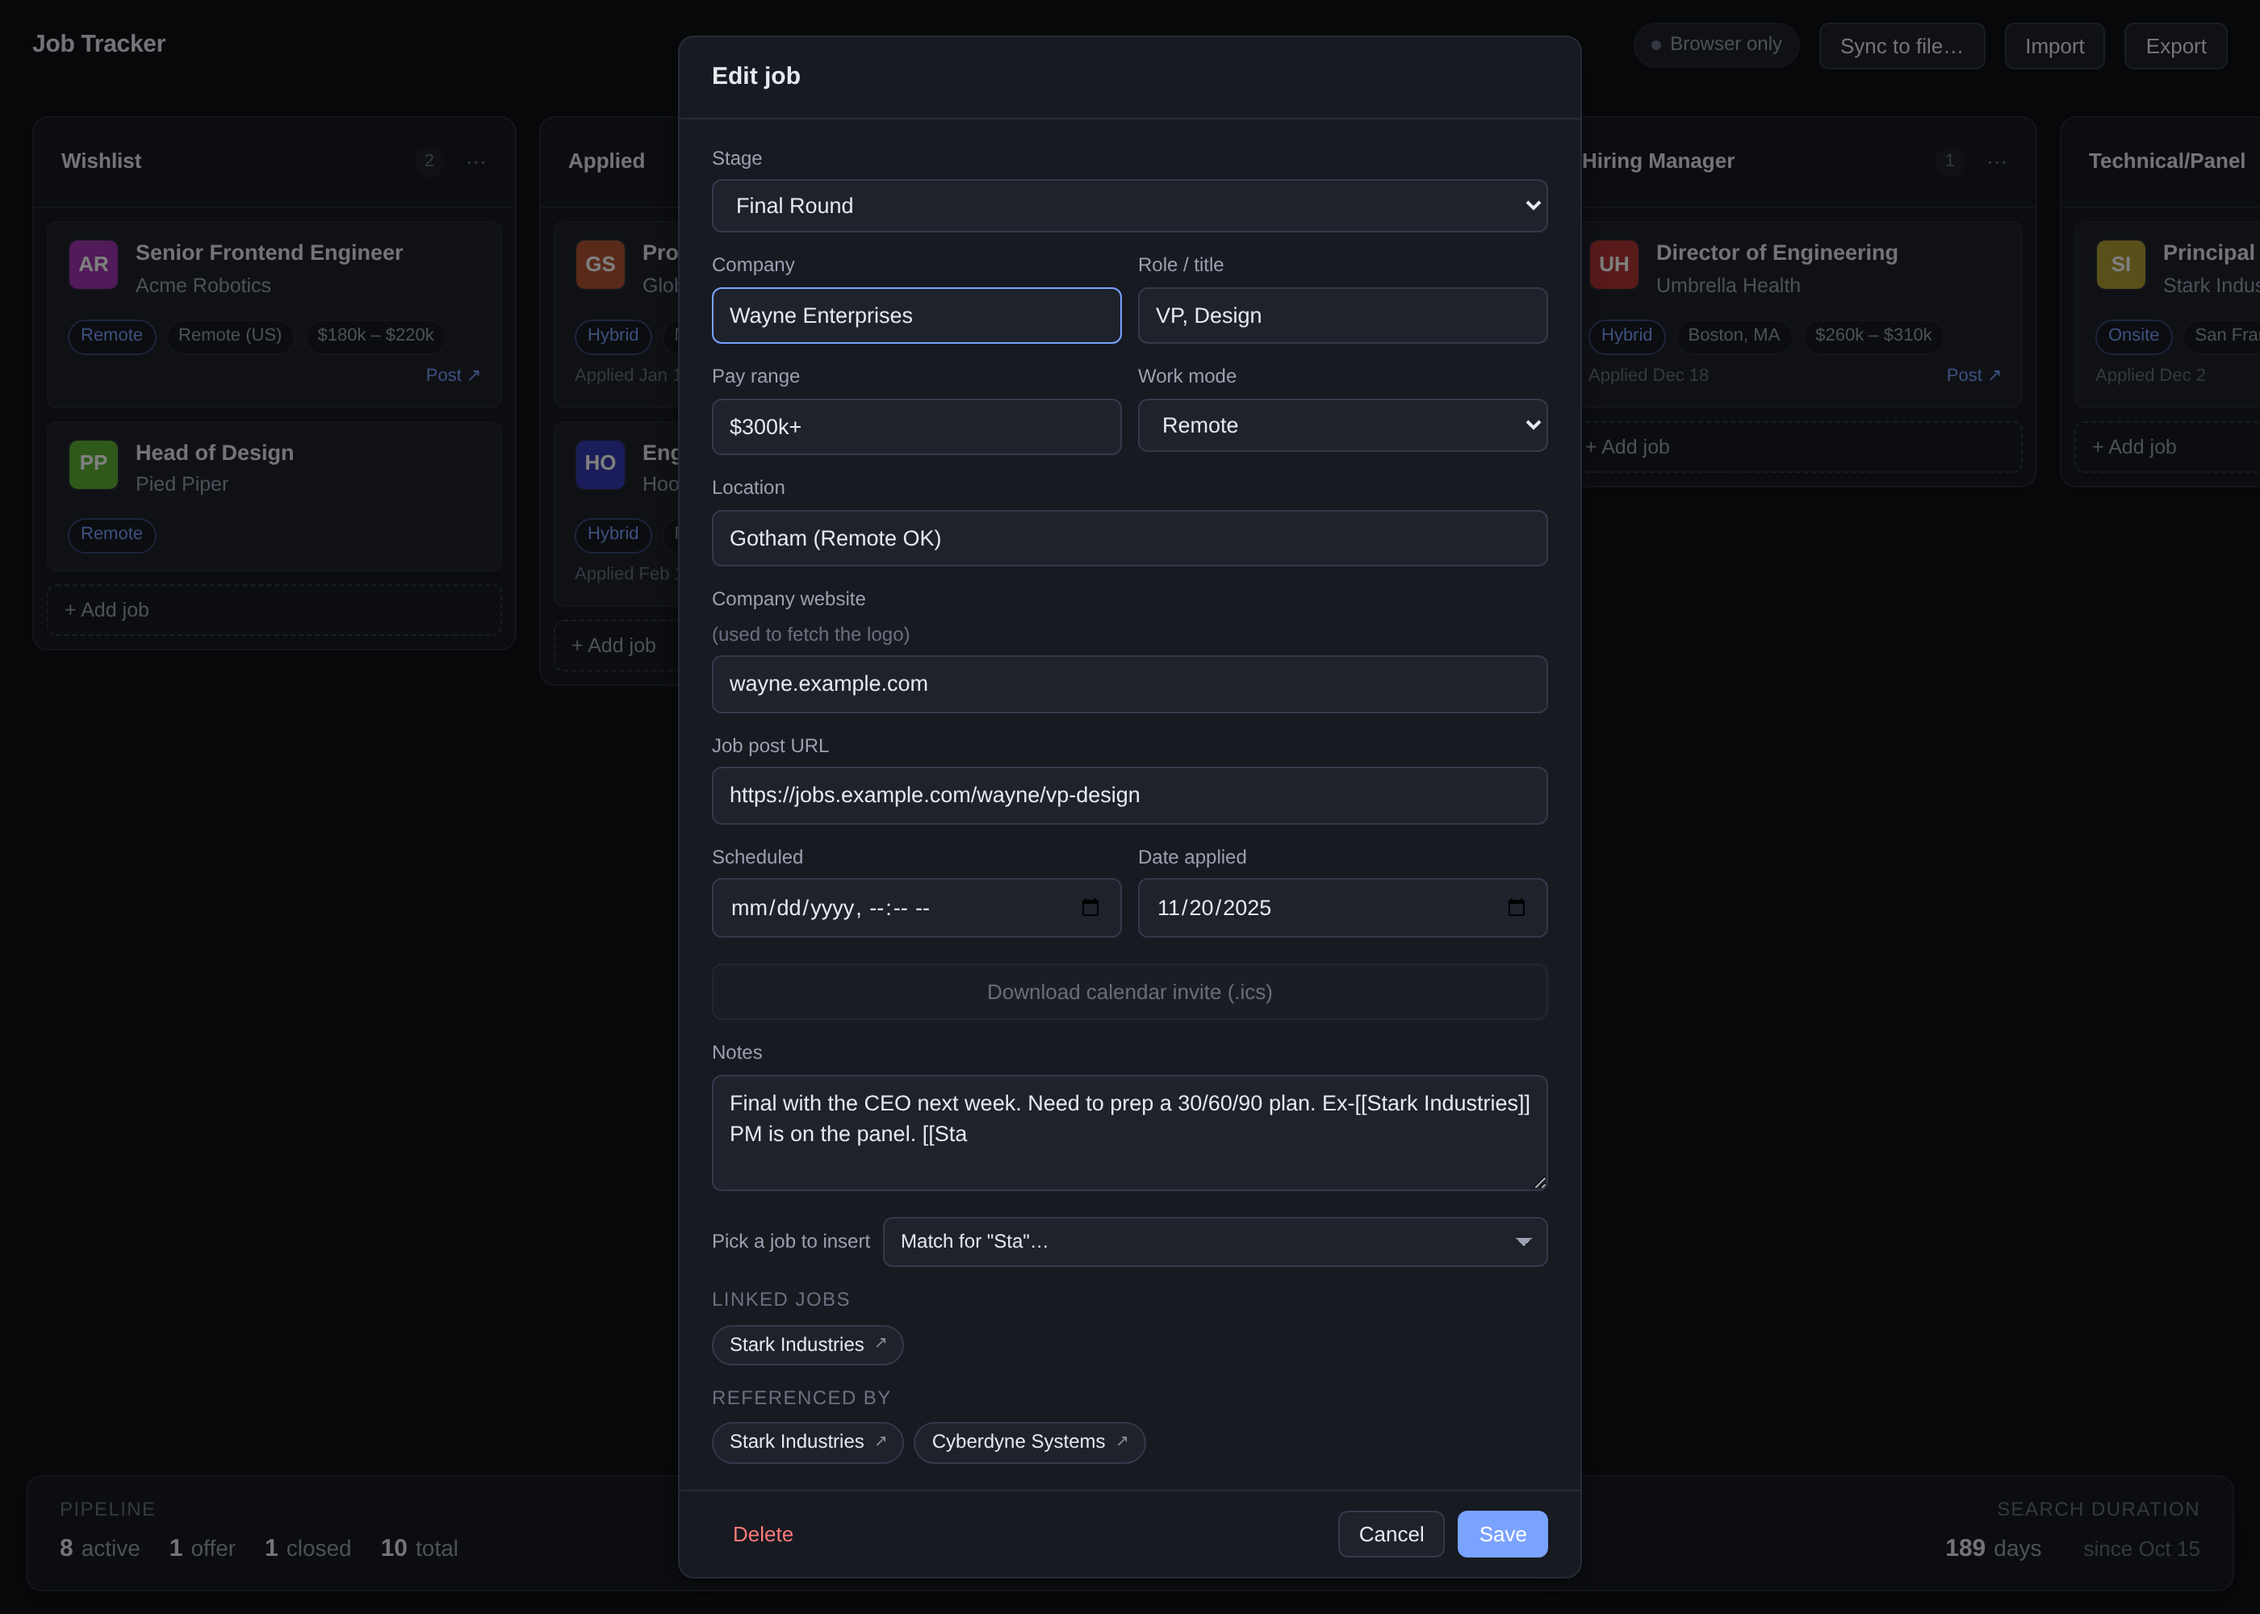
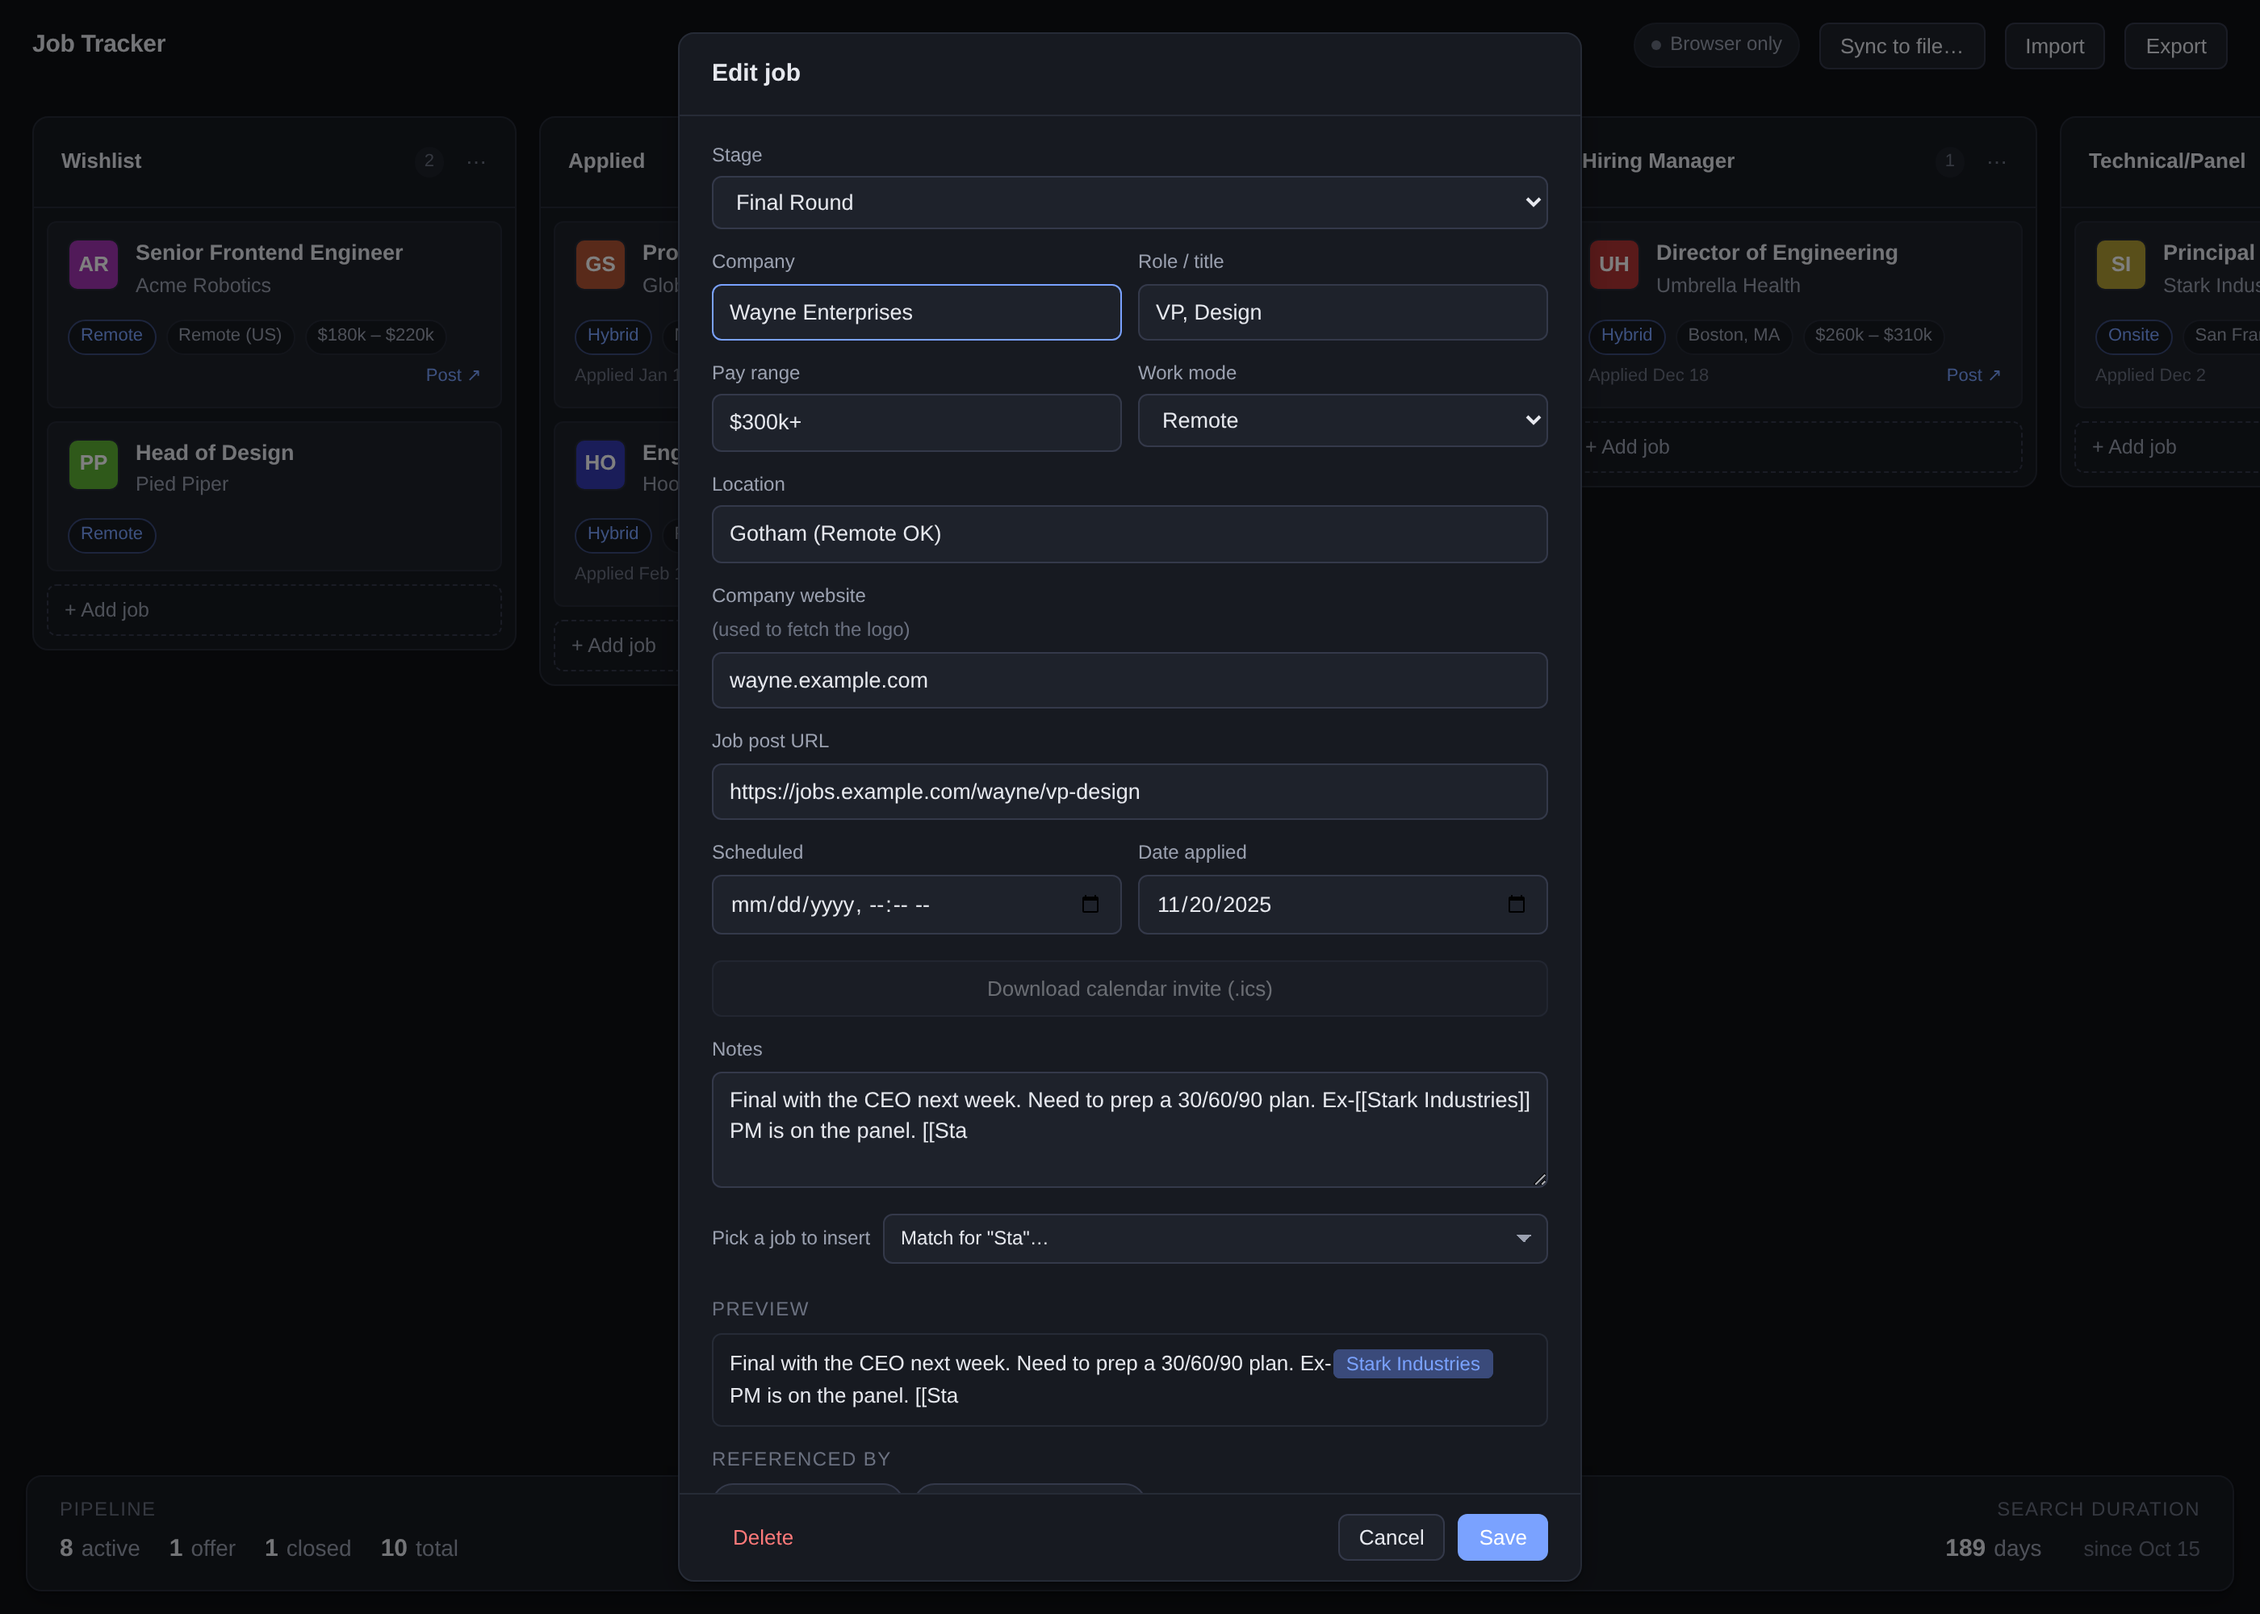
Render [[wikilinks]] as inline chips in a live Notes preview

diff --git a/index.html b/index.html
@@ -560,6 +560,58 @@
     font-size: 10px;
   }
 
+  /* Live preview of notes — renders [[wikilinks]] as inline highlighted chips */
+  .notes-preview-block {
+    margin-top: 8px;
+  }
+  .notes-preview {
+    background: var(--bg-elev);
+    border: 1px solid var(--border);
+    border-radius: var(--radius-sm);
+    padding: 8px 10px;
+    font-size: 13px;
+    line-height: 1.5;
+    color: var(--text);
+    white-space: pre-wrap;
+    word-wrap: break-word;
+    min-height: 1.5em;
+  }
+  .notes-preview:empty::before {
+    content: "Preview appears here as you type. [[wikilinks]] render as chips.";
+    color: var(--text-faint);
+    font-style: italic;
+  }
+  /* Inline chip — appears in the flow of preview text, with a background */
+  .wiki-chip {
+    display: inline;
+    padding: 1px 7px;
+    margin: 0 1px;
+    border-radius: 4px;
+    background: var(--accent-dim, rgba(99, 132, 255, 0.18));
+    color: var(--accent);
+    border: 1px solid var(--accent-dim, rgba(99, 132, 255, 0.28));
+    font-size: 0.92em;
+    text-decoration: none;
+    cursor: pointer;
+    white-space: nowrap;
+    transition: background 0.12s, color 0.12s;
+  }
+  .wiki-chip:hover {
+    background: var(--accent);
+    color: var(--bg);
+  }
+  .wiki-chip.unresolved {
+    background: transparent;
+    color: var(--text-faint);
+    border-style: dashed;
+    cursor: default;
+    font-style: italic;
+  }
+  .wiki-chip.unresolved:hover {
+    background: transparent;
+    color: var(--text-faint);
+  }
+
   /* Card scheduled-date pill */
   .chip.scheduled {
     color: var(--accent);
@@ -705,9 +757,9 @@
           <option value="">Choose…</option>
         </select>
       </div>
-      <div id="linked-jobs-block" style="display:none">
-        <div class="stats-label" style="margin-bottom:6px">Linked jobs</div>
-        <div class="link-chips" id="linked-jobs"></div>
+      <div class="notes-preview-block" id="notes-preview-block">
+        <div class="stats-label" style="margin-bottom:6px">Preview</div>
+        <div class="notes-preview" id="notes-preview"></div>
       </div>
       <div id="backlinks-block" style="display:none">
         <div class="stats-label" style="margin-bottom:6px">Referenced by</div>
@@ -1407,44 +1459,55 @@ function findCardByCompany(name) {
   ) || null;
 }
 
-function renderLinkChips() {
-  const block = document.getElementById("linked-jobs-block");
-  const wrap = document.getElementById("linked-jobs");
-  const notes = document.getElementById("f-notes").value;
-  const links = parseWikilinks(notes);
+// Render the notes into an inline preview where each [[wikilink]] appears as
+// a clickable chip with a background color. The raw markdown stays in the
+// textarea (and in any exported .md / companies.md file).
+function renderNotesPreview() {
+  const wrap = document.getElementById("notes-preview");
+  const notes = document.getElementById("f-notes").value || "";
   wrap.innerHTML = "";
-  if (!links.length) { block.style.display = "none"; return; }
-  // Dedupe by target (case-insensitive)
-  const seen = new Set();
-  links.forEach(({ target, alias }) => {
-    const key = target.toLowerCase();
-    if (seen.has(key)) return;
-    seen.add(key);
+  if (!notes.trim()) return;
+
+  // Walk through notes, slicing out [[wikilink]] matches and keeping the
+  // surrounding plain text as text nodes. This preserves whitespace and
+  // newlines via CSS `white-space: pre-wrap` on the container.
+  WIKILINK_RE.lastIndex = 0;
+  let cursor = 0;
+  let match;
+  while ((match = WIKILINK_RE.exec(notes)) !== null) {
+    if (match.index > cursor) {
+      wrap.appendChild(document.createTextNode(notes.slice(cursor, match.index)));
+    }
+    const target = (match[1] || "").trim();
+    const alias = (match[2] || "").trim();
     const targetCard = findCardByCompany(target);
-    // Don't self-link (if a card's notes reference its own company)
-    if (targetCard && targetCard.id === editingCardId) return;
-    const chip = document.createElement(targetCard ? "a" : "span");
-    chip.className = "link-chip" + (targetCard ? "" : " unresolved");
+    const isSelf = targetCard && targetCard.id === editingCardId;
+    const chip = document.createElement(targetCard && !isSelf ? "a" : "span");
+    chip.className = "wiki-chip" + (targetCard ? "" : " unresolved");
     chip.textContent = alias || target;
-    if (targetCard) {
+    if (targetCard && !isSelf) {
       chip.href = "#";
       const col = findColumnForCard(targetCard.id);
       chip.title = `${targetCard.company} — ${targetCard.role}${col ? " · " + col.title : ""}`;
-      const arrow = document.createElement("span");
-      arrow.className = "arrow";
-      arrow.textContent = "↗";
-      chip.appendChild(arrow);
       chip.addEventListener("click", (e) => {
         e.preventDefault();
         openJobModal(targetCard.id);
       });
+    } else if (isSelf) {
+      chip.title = "This card";
     } else {
       chip.title = `No job matches "${target}" yet`;
     }
     wrap.appendChild(chip);
-  });
-  block.style.display = wrap.children.length ? "" : "none";
+    cursor = match.index + match[0].length;
+  }
+  if (cursor < notes.length) {
+    wrap.appendChild(document.createTextNode(notes.slice(cursor)));
+  }
 }
+
+// Alias kept for call-site compatibility — renders the inline chip preview.
+function renderLinkChips() { renderNotesPreview(); }
 
 function renderBacklinks(card) {
   const block = document.getElementById("backlinks-block");
